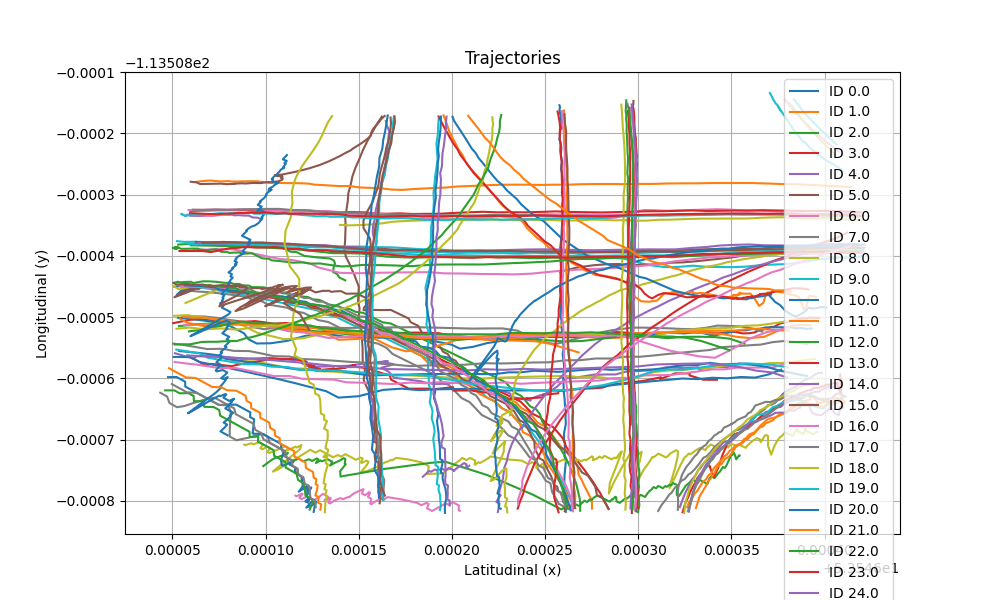
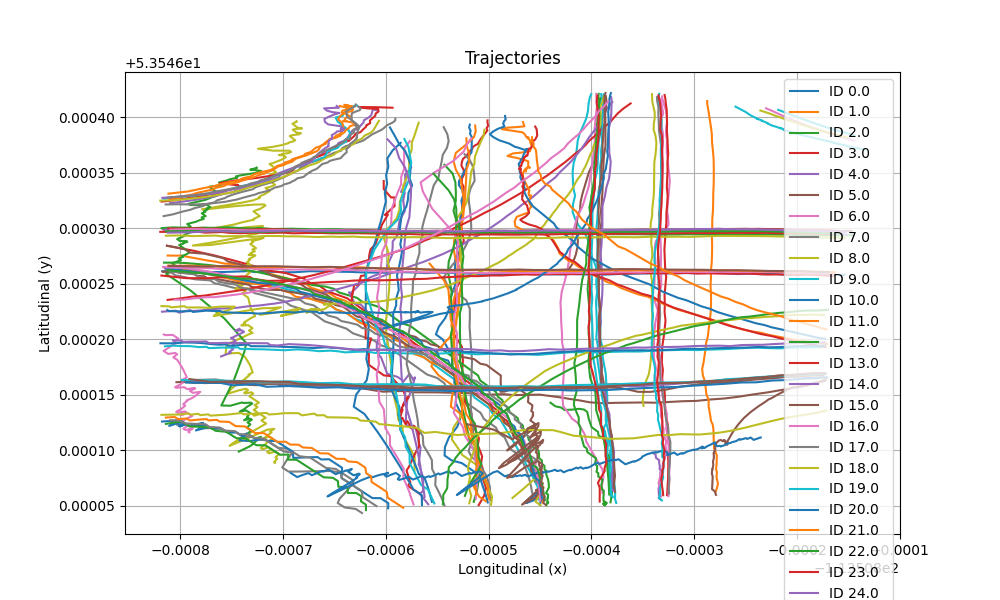
some improvement

diff --git a/framework/plotting/plotter.py b/framework/plotting/plotter.py
@@ -6,10 +6,10 @@ class Plotter:
     def save_plot(trajectories, output_path='plot.png'):
         plt.figure(figsize=(10, 6))
         for trajectory in trajectories:
-            x_vals, y_vals = zip(*[(row[2], row[3]) for row in trajectory])
+            x_vals, y_vals = zip(*[(row[3], row[2]) for row in trajectory])
             plt.plot(x_vals, y_vals, label=f'ID {trajectory[0][1]}')
-        plt.xlabel('Latitudinal (x)')
-        plt.ylabel('Longitudinal (y)')
+        plt.ylabel('Latitudinal (y)')
+        plt.xlabel('Longitudinal (x)')
         plt.title('Trajectories')
         plt.legend()
         plt.grid(True)
